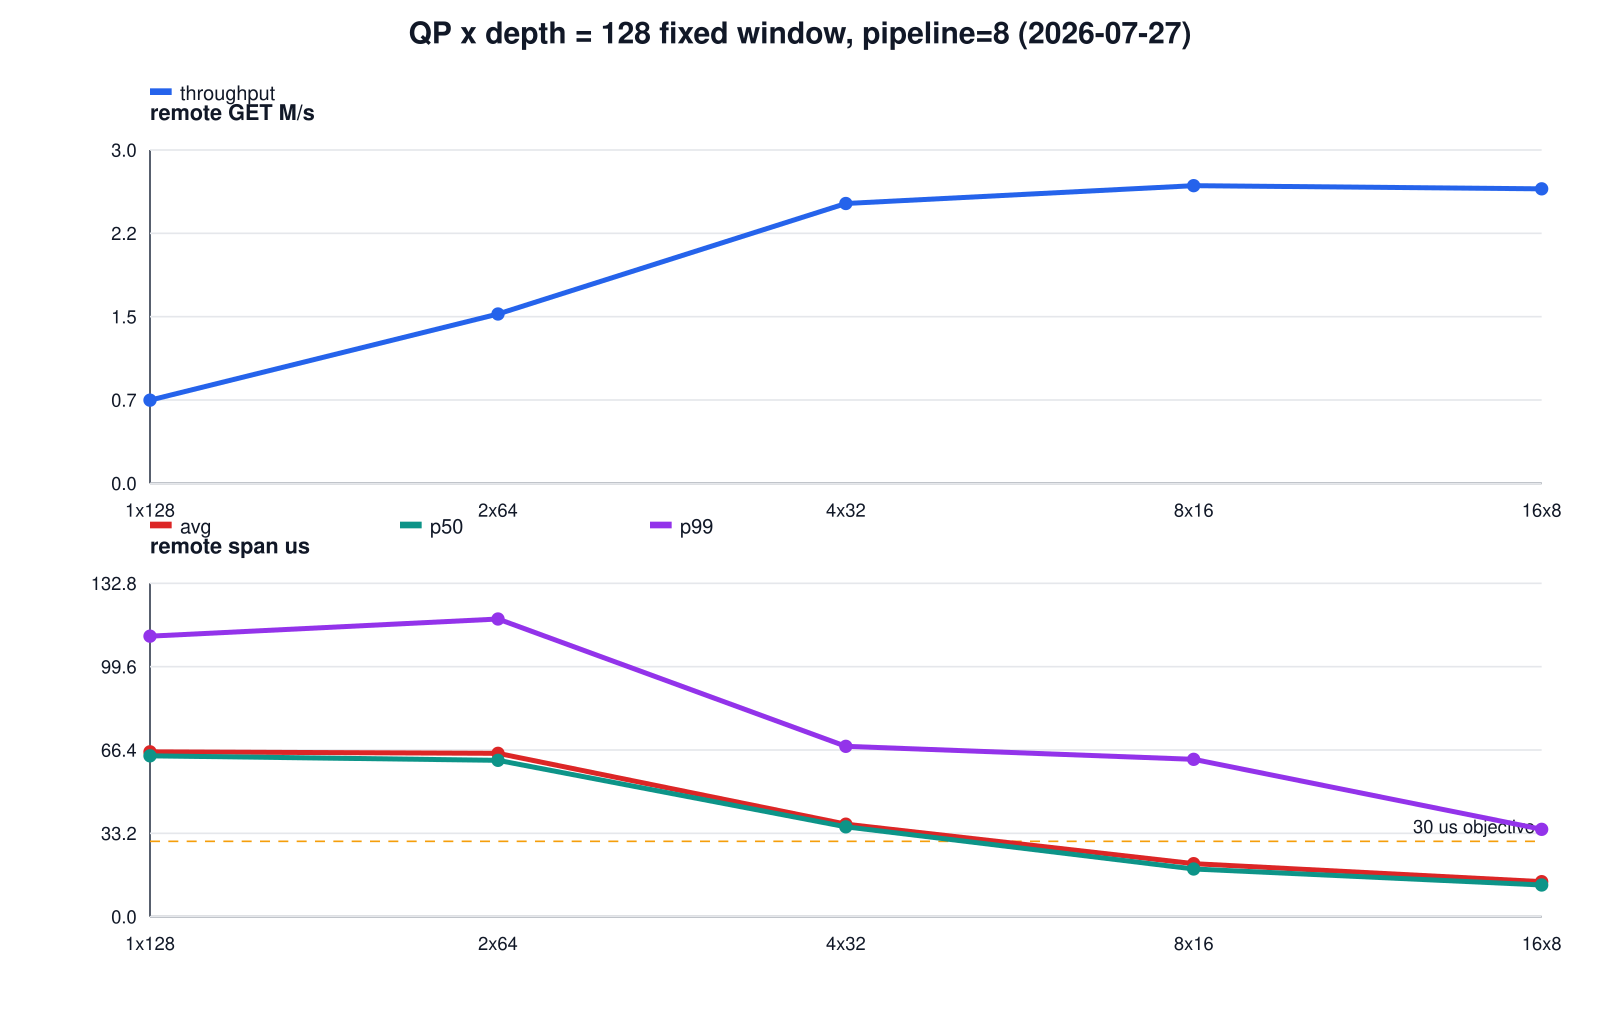
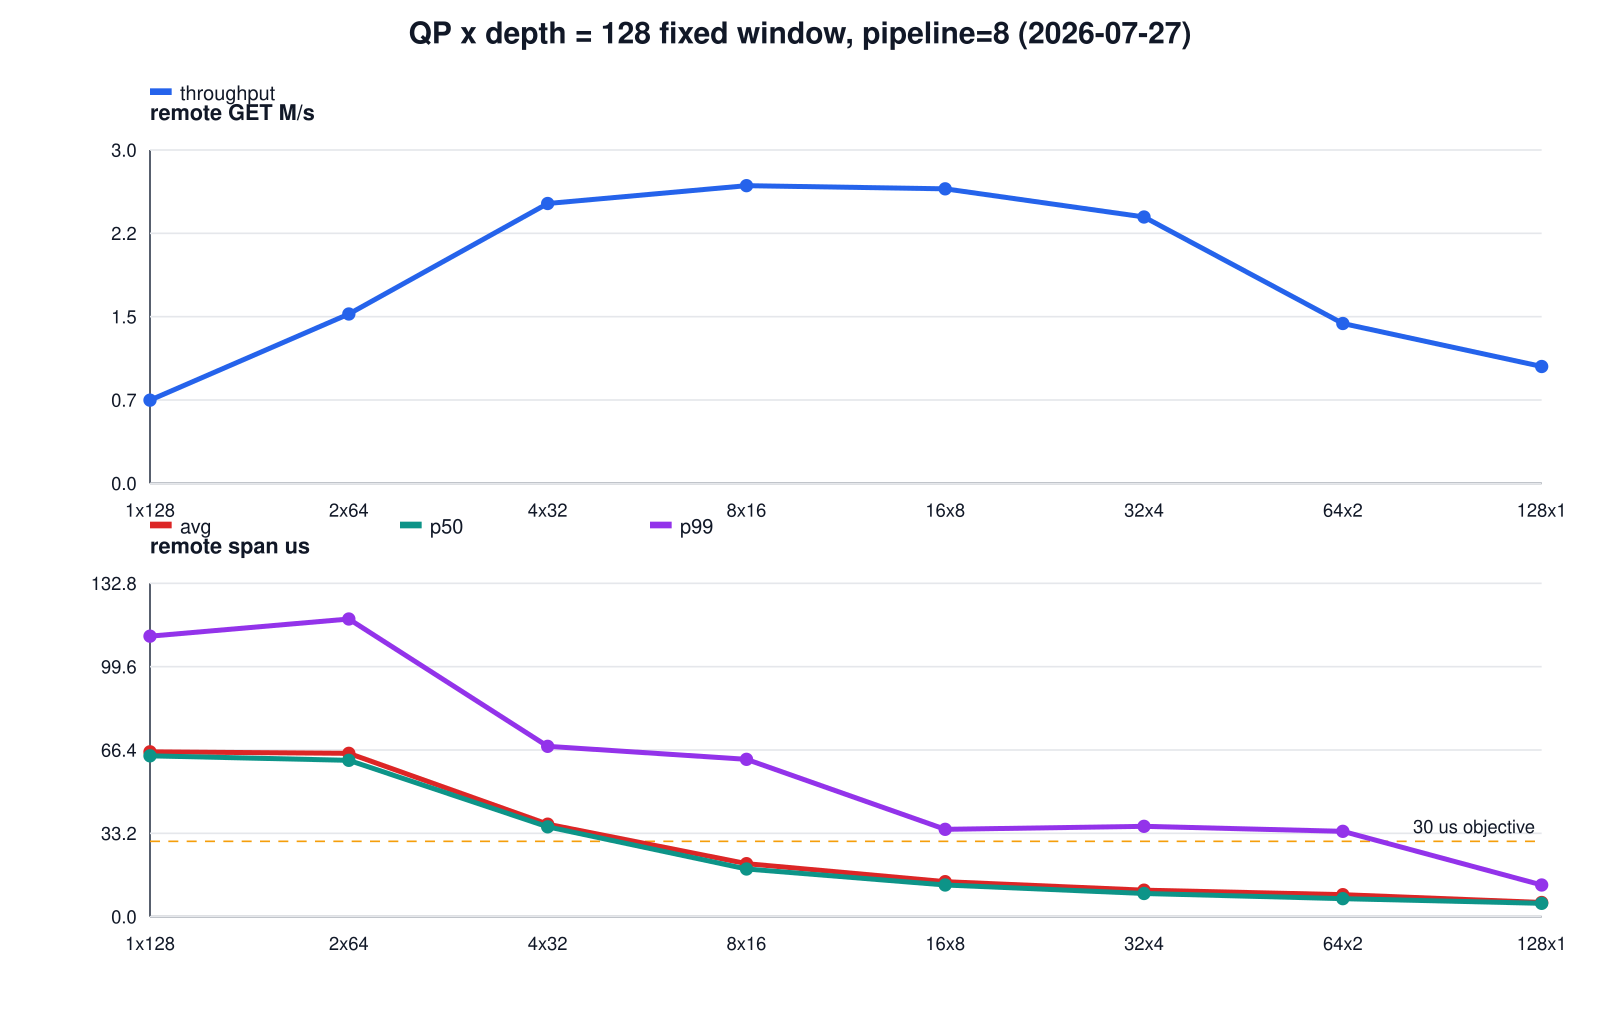
[ariel] extend qp-window sweeps to QP=256: bell curve confirmed, depth floors at high QP

diff --git a/md/RAW_DATA_INDEX.md b/md/RAW_DATA_INDEX.md
@@ -223,6 +223,16 @@ window=256 재실험(§1b)은 별도 실행이다. 5 points, 48 files, 전 point
 qpxd-q{1,2,4,8,16}-d{256,128,64,32,16}/
 ```
 
+고QP 확장(QP 32–256)은 window별 별도 실행이다. 전 point `status=ok`.
+
+```text
+/home/seonung/2026/rdma-results/qpxd128-highqp-20260727-085218/   # q{32,64,128}-d{4,2,1}
+/home/seonung/2026/rdma-results/qpxd256-highqp-20260727-085218/   # q{32,64,128,256}-d{8,4,2,1}
+```
+
+각 highqp 디렉터리의 `results-canonical.csv`는 해당 window의 기본 실행과
+확장 실행을 합친 표·그림 입력이다. raw 원문을 대체하지 않는다.
+
 ## CPU 실험 raw
 
 `md/CPU_COST_ACCOUNTING.md`와 `md/CPU_OPTIMIZATION_ROLLOUT.md`가 참조하는
